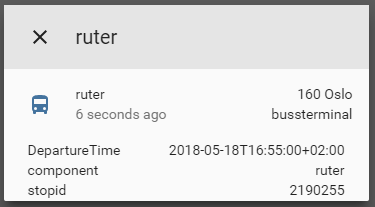
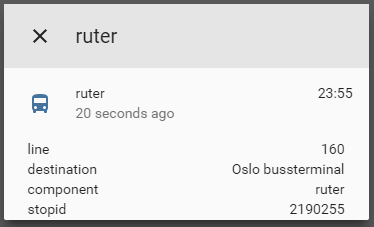
change state values

diff --git a/ruter/custom_components/sensor/ruter.py b/ruter/custom_components/sensor/ruter.py
@@ -4,6 +4,7 @@ For more details about this component, please refer to the documentation at
 https://github.com/HalfDecent/HA-Custom_components/ruter
 """
 import requests
+import dateutil.parser
 import voluptuous as vol
 from datetime import timedelta
 from homeassistant.helpers.entity import Entity
@@ -12,11 +13,12 @@ from homeassistant.components.switch import (PLATFORM_SCHEMA)
 
 CONF_STOPID = 'stopid'
 
-ATTR_TIME = 'DepartureTime'
+ATTR_DESTINATION = 'destination'
+ATTR_LINE = 'line'
 ATTR_COMPONENT = 'component'
 ATTR_STOPID = 'stopid'
 
-SCAN_INTERVAL = timedelta(seconds=5)
+SCAN_INTERVAL = timedelta(seconds=20)
 
 ICON = 'mdi:bus'
 
@@ -31,7 +33,8 @@ def setup_platform(hass, config, add_devices, discovery_info=None):
 class RuterSensor(Entity):
     def __init__(self, stopid):
         self._state = None
-        self._time = None
+        self._line = None
+        self._destination = None
         self._stopid = stopid
         self._component = 'ruter'
 
@@ -39,11 +42,11 @@ class RuterSensor(Entity):
         baseurl = "http://reisapi.ruter.no/StopVisit/GetDepartures/"
         fetchurl = baseurl + self._stopid
         departure = requests.get(fetchurl).json()[0]
-        line = departure['MonitoredVehicleJourney']['LineRef']
-        destination = departure['MonitoredVehicleJourney']['DestinationName']
+        self._line = departure['MonitoredVehicleJourney']['LineRef']
+        self._destination = departure['MonitoredVehicleJourney']['DestinationName']
         time = departure['MonitoredVehicleJourney']['MonitoredCall']['ExpectedDepartureTime']
-        self._state = line + ' ' + destination
-        self._time = time
+        deptime = dateutil.parser.parse(time)
+        self._state = deptime.strftime("%H:%M")
 
 
     @property
@@ -61,7 +64,8 @@ class RuterSensor(Entity):
     @property
     def device_state_attributes(self):
         return {
-            ATTR_TIME: self._time,
+            ATTR_LINE: self._line,
+            ATTR_DESTINATION: self._destination,
             ATTR_COMPONENT: self._component,
             ATTR_STOPID: self._stopid
         }
